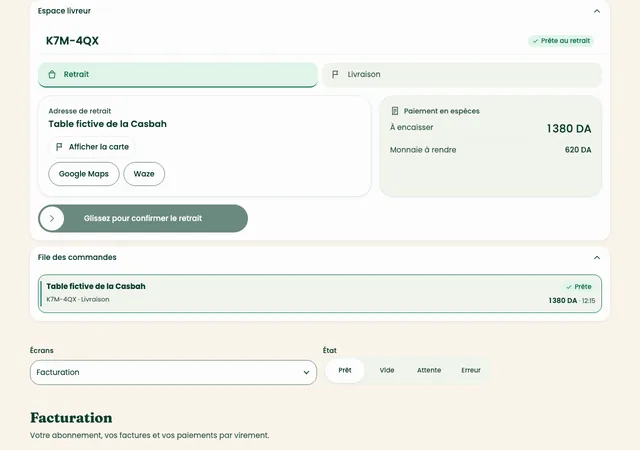
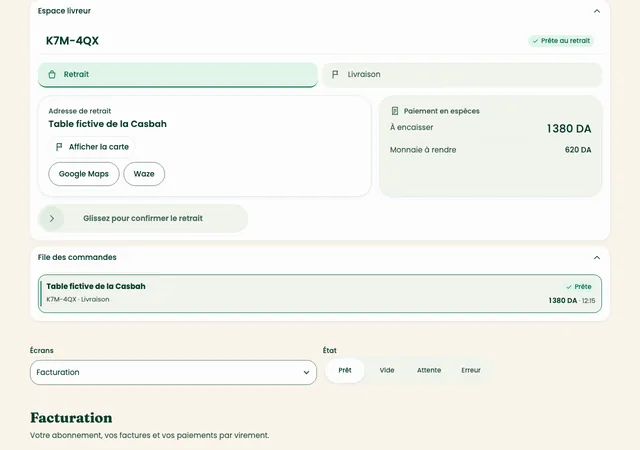
design: surface delivery status and sharpen operator actions

Changed region(s): [[0.0625, 0.4356, 0.4062, 0.5289]]

diff --git a/apps/web/src/courier/courier.css b/apps/web/src/courier/courier.css
@@ -258,18 +258,27 @@
   color: var(--color-on-primary);
   background: var(--color-primary);
   font: inherit;
-  font-weight: var(--font-weight-label);
+  font-weight: var(--font-weight-h3);
   cursor: grab;
   touch-action: pan-y;
   user-select: none;
 }
 
-.courier-slide:active {
+@media (hover: hover) {
+  .courier-slide:hover:enabled {
+    background: var(--color-primary-hover);
+  }
+}
+
+.courier-slide:active:enabled {
+  background: var(--color-primary-pressed);
   cursor: grabbing;
 }
 
 .courier-slide:disabled {
-  opacity: 0.6;
+  color: var(--color-text-3);
+  background: var(--color-surface-2);
+  box-shadow: inset 0 0 0 1px var(--color-border-subtle);
   cursor: default;
 }
 
@@ -284,6 +293,11 @@
   border-radius: var(--radius-pill);
   color: var(--color-text);
   background: var(--color-surface);
+}
+
+.courier-slide:disabled .courier-slide-thumb {
+  color: var(--color-text-3);
+  background: var(--color-surface-3);
 }
 
 [dir="rtl"] .courier-slide-thumb .ui-icon {

diff --git a/apps/web/test/my-orders.test.tsx b/apps/web/test/my-orders.test.tsx
@@ -88,15 +88,16 @@ test("[CUS-21] flags unavailable dishes and changed prices when ordering again",
 
 test("[CUS-21] has empty, loading and error states", () => {
   const { retentionOrders } = getMessages("ar");
-  expect(
-    render(
-      {
-        history: { kind: "ready", orders: [], nextCursor: null },
-        favourites: { kind: "ready", restaurants: [] },
-      },
-      "ar",
-    ),
-  ).toContain(retentionOrders.noOrdersBody);
+  const empty = render(
+    {
+      history: { kind: "ready", orders: [], nextCursor: null },
+      favourites: { kind: "ready", restaurants: [] },
+    },
+    "ar",
+  );
+  expect(empty).toContain(retentionOrders.noOrdersBody);
+  expect(empty).toContain('href="/ar/discover"');
+  expect(empty).toContain(retentionOrders.findRestaurants);
   expect(render({}, "ar")).toContain('class="ui-skeleton"');
   expect(render({ history: { kind: "error" } }, "ar")).toContain(retentionOrders.retry);
 });

diff --git a/apps/web/src/tracking/tracking-view.tsx b/apps/web/src/tracking/tracking-view.tsx
@@ -142,7 +142,7 @@ function CancelOrder({ state, tracking }: { state: TrackingState; tracking: Trac
   );
 }
 
-/** Time, code and timeline; for pickup the code comes before the timeline. */
+/** Present the handoff code above the timeline so it stays easy to find. */
 function LiveDetails({
   tracking,
   locale,
@@ -158,9 +158,8 @@ function LiveDetails({
   return (
     <>
       <Eta tracking={tracking} locale={locale} />
-      {isLive && isPickup && <CodeCard tracking={tracking} />}
+      {isLive && <CodeCard tracking={tracking} />}
       <Timeline tracking={tracking} locale={locale} />
-      {isLive && !isPickup && <CodeCard tracking={tracking} />}
       {isWaitingForCourier && <p className="tracking-note">{translate("waitingCourier")}</p>}
     </>
   );

diff --git a/apps/web/src/tracking/tracking.css b/apps/web/src/tracking/tracking.css
@@ -592,6 +592,20 @@
   position: relative;
 }
 
+@media (width < 960px) {
+  /* Reserve the same slot through loading, fallback and live map updates. */
+  .tracking[data-map="true"] > .tracking-map-loading,
+  .tracking[data-map="true"] > .tracking-basemap > .tracking-map-real {
+    block-size: clamp(15rem, 37svb, 24rem);
+    min-block-size: 0;
+  }
+
+  .tracking-map-real > .tracking-map {
+    block-size: 100%;
+    min-block-size: 0;
+  }
+}
+
 .tracking-map-real > .awid-map-canvas {
   position: absolute;
   inset: 0;

diff --git a/apps/web/src/checkout/checkout.css b/apps/web/src/checkout/checkout.css
@@ -540,6 +540,7 @@
   mask-image: var(--decor-zellige);
   mask-size: 64px;
   pointer-events: none;
+  opacity: 0.64;
   content: "";
 }
 
@@ -595,6 +596,11 @@
   font-size: var(--font-size-caption);
   font-weight: var(--font-weight-label);
   font-variant-numeric: var(--font-variant-numeric-numbers);
+}
+
+.checkout-confirmed-eta bdi {
+  font-size: var(--font-size-body);
+  font-weight: var(--font-weight-h3);
 }
 
 .checkout-confirmed .ui-button {

diff --git a/apps/web/src/retention/my-orders.tsx b/apps/web/src/retention/my-orders.tsx
@@ -334,6 +334,11 @@ function History({ state, locale }: { state: MyOrdersState; locale: Locale }) {
           art={<StateArt kind="bag" />}
           title={translate("noOrders")}
           body={translate("noOrdersBody")}
+          action={
+            <ButtonLink variant="primary" href={`/${locale}/discover`}>
+              {translate("findRestaurants")}
+            </ButtonLink>
+          }
         />
       </Card>
     );

diff --git a/apps/web/src/merchant-board/board.css b/apps/web/src/merchant-board/board.css
@@ -400,6 +400,19 @@
     font-size: var(--font-size-h1);
     line-height: var(--line-height-h1);
   }
+
+  .board-column:has(> .board-empty) {
+    gap: var(--space-4);
+    padding-block: var(--space-8);
+  }
+
+  .board-column:has(> .board-empty) .board-column-heading {
+    padding-block: 0 var(--space-4);
+  }
+
+  .board-empty {
+    padding-block: 0;
+  }
 }
 
 @media (min-width: 56rem) {

diff --git a/apps/web/src/retention/retention.css b/apps/web/src/retention/retention.css
@@ -468,6 +468,12 @@
     gap: var(--space-32);
   }
 
+  .orders-history-column > .ui-card:has(> .ui-state > .ui-button) {
+    display: grid;
+    align-content: center;
+    min-block-size: clamp(20rem, 58svb, 34rem);
+  }
+
   .orders-sidebar {
     position: sticky;
     inset-block-start: var(--space-24);

diff --git a/apps/web/src/components/sign-in.css b/apps/web/src/components/sign-in.css
@@ -72,6 +72,11 @@
   inline-size: 100%;
 }
 
+.auth-form .ui-segmented-track[data-count="2"]::before {
+  background: var(--color-mint-pale);
+  box-shadow: inset 0 0 0 1px var(--color-accent-strong);
+}
+
 .auth-heading h1 {
   font-family: var(--font-display);
   font-size: var(--font-size-h1);

diff --git a/docs/evidence/design-v2.md b/docs/evidence/design-v2.md
@@ -215,3 +215,59 @@ were made after the initial browser build.
 
 Next: repeat the exact-source gates, then refine delivery tracking's
 fallback and pickup directions without introducing layout shifts.
+
+The exact mobile ordering checkpoint was pushed as `486ca1f1`.
+Full verify and the four browser suites passed on that checkpoint:
+127 main tests with ten conditional skips, 82 connected tests, four
+map tests and three preview tests. The standalone customer accessibility
+audit sampled 60 views with zero axe violations, small targets, missing
+focus indicators or audit errors.
+
+The separate 120-view fullness audit at 390 and 1280 px found four
+desktop empty Orders failures across Arabic, French, light and dark.
+Each empty view had a 0.375 largest empty region against the 0.30 limit.
+The next pass adds a localized Discovery action and a taller desktop
+empty-order card. In an isolated CSS prototype, the gap fell to 0.173
+in Arabic and 0.188 in French. The built change still needs its audit.
+
+The mobile tracking prototype recovered from rejected tile requests
+to the local real map at 390 × 844. ETA ended at y=543 in Arabic and
+y=527 in French, with 0 px of heading movement. The next pass reserves
+the same map slot in every map state and promotes the handoff code
+above the timeline. In the operator prototype, phone empty-stage
+heights were 75–81 px, the courier control remained 56 px tall, and
+a programmatically enabled fixture showed a visible focus outline.
+These prototype checks precede the final browser run.
+
+### Status, sign-in and operator pass
+
+The built change passed all four previously failing empty Orders
+views at 1280 px. Largest top and bottom regions were 0.173 in Arabic
+and 0.188 in French, in both themes. The screen now has a localized
+Discovery action. Focused checkout, tracking and orders tests passed
+16/16.
+
+The exact dark mobile build was tested through tile failure and recovery
+against the local basemap. The ETA and delivery code ended at y=543 and
+y=696 in Arabic and y=527 and y=667 in French, above the fixed
+navigation. The status heading moved 0 px after recovery. The selected
+sign-in method has a mint outline in both languages. Merchant empty
+stages measured 75–81 px on phones. The courier confirmation target
+measured 56 px across all four capture variants.
+
+| Screen | Arabic mobile | French mobile | French desktop | French dark mobile |
+| --- | ---: | ---: | ---: | ---: |
+| Tracking | 8.6 | 8.7 | 8.6 | 8.6 |
+| Sign-in | 8.4 | 8.5 | 8.0 | 8.1 |
+| Confirmation | 9.0 | 8.8 | 8.6 | 8.9 |
+| Empty Orders | 8.5 | 8.4 | 8.0 | 8.2 |
+| Merchant live board | 8.0 | 8.0 | 7.4 | 7.8 |
+| Courier active job | 8.0 | 8.1 | 7.7 | 7.9 |
+
+A fresh critic scored the captured build. The tracking retry notice
+overlaps part of the schematic route. The desktop sign-in and
+confirmation could use stronger image-to-form and action hierarchy.
+The empty Orders card fills the desktop layout but leaves generous
+space inside. Operator fixtures still expose empty desktop stages and
+show disabled handoff without giving the reason directly on the
+button. The courier fixture has no street address.

diff --git a/docs/DESIGN.md b/docs/DESIGN.md
@@ -46,8 +46,10 @@ scooter. Preserve the 44 px control floor and the connected performance budgets.
 A location control sits above search. Sheets dim the underlying view and put
 the next decision near the thumb. Cart and checkout give the amount and next
 step first, with the address and timing nearby. Tracking keeps status and the
-delivery estimate visible alongside the map. Operators get compact groupings
-for urgent orders, with status and action clear at a glance. Use borders and
+delivery estimate visible alongside the map. Reserve the same map height through loading, fallback and live states.
+On phones, the map gives the first viewport room for the ETA and handoff
+code. Operators get compact groupings for urgent orders, with status
+and action clear at a glance. Use borders and
 surface changes to group related controls, and let empty views explain what
 the user can do next.
 
@@ -61,7 +63,7 @@ they still describe maintained components.
 
 ## 1. Principles
 
-1. **Food is the hero.** Every customer screen leads with a real, credited photo (`docs/PHOTO_CREDITS.md`). The UI stays cream, white and deep green around it.
+1. **Food sets the scene.** Use real, credited photography on landing, Discovery, restaurant and dish screens (`docs/PHOTO_CREDITS.md`). On task-focused screens, let the current decision, amount or status lead.
 2. **One focal point per view.** One primary action, quiet or separated destructive actions, status as badges.
 3. **Fast is a feature.** Motion explains a change or confirms an action and never blocks input. Low-end Android over 4G is the default device.
 4. **Local, not generic.** Arabic is a first-class layout, checked rather than mirrored. Prices look like Algerian prices (`1 450 DA`).
@@ -106,7 +108,7 @@ Deep green night, not grey: `bg #05221A`, `surface #0A2D22`, `surface-2 #0F372A`
 - Text and primary buttons use deep green. `#00A37A` is for large shapes, icons and accents: white small text on it fails contrast.
 - Mint is energy, never body text on light backgrounds.
 - Status is never colour alone.
-- Gradients are light, never decoration for its own sake: photo scrims, lamp-light pools (`glow`) and divider fades (Dar Zellige, §0).
+- Gradients are light, never decoration for its own sake: photo scrims, lamp-light pools (`glow`) and divider fades (The Algerian Table, §0).
 - Theme follows the system; users can override. Both themes are designed, not inverted.
 
 ## 4. Typography
